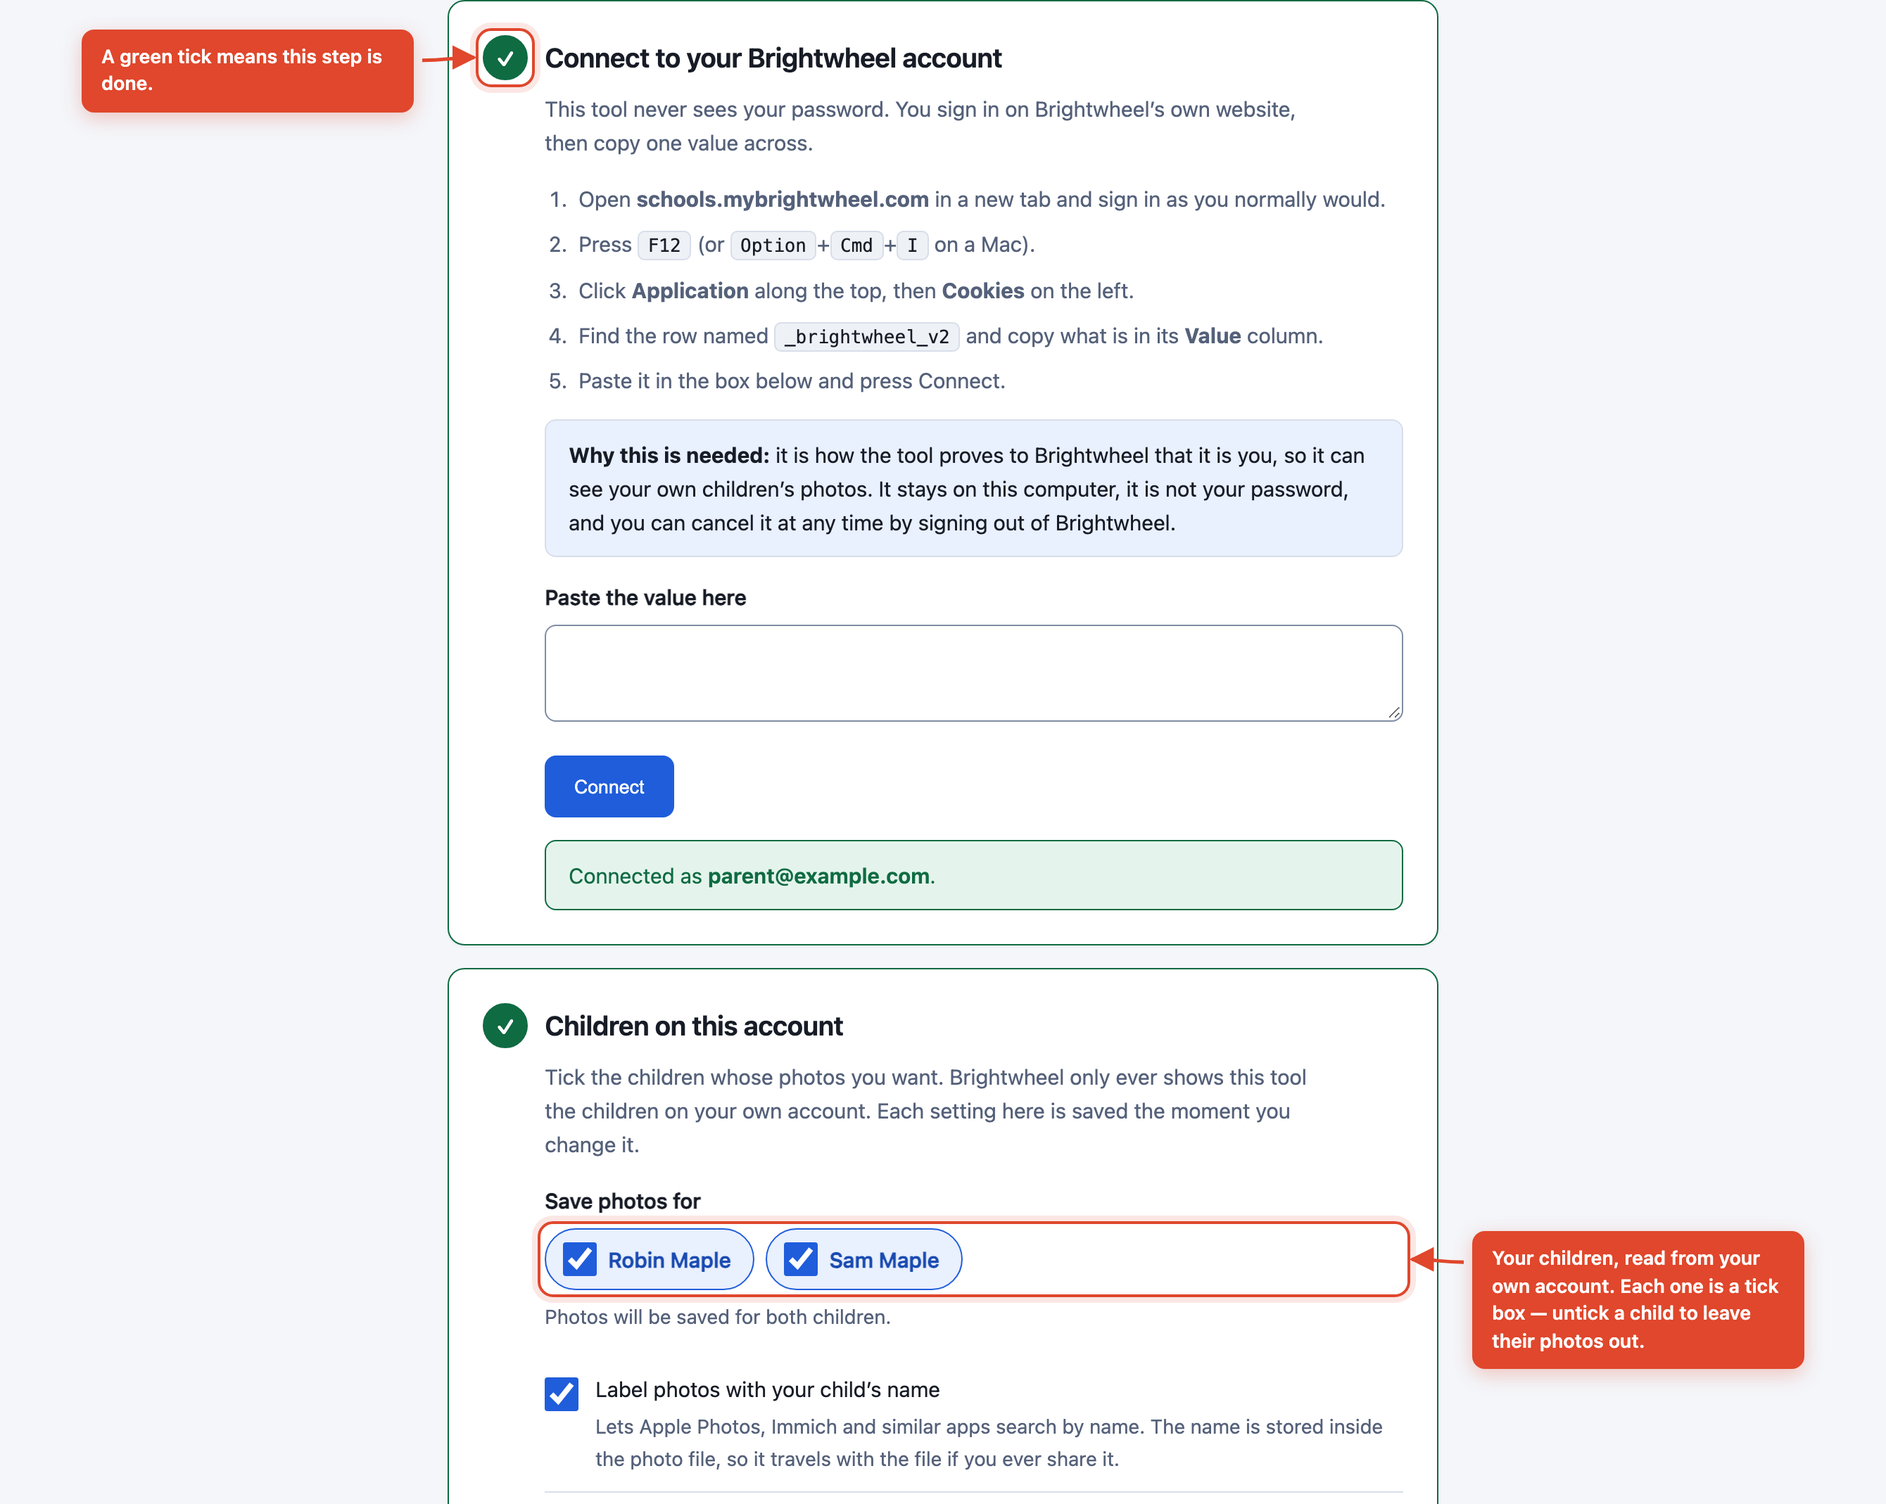
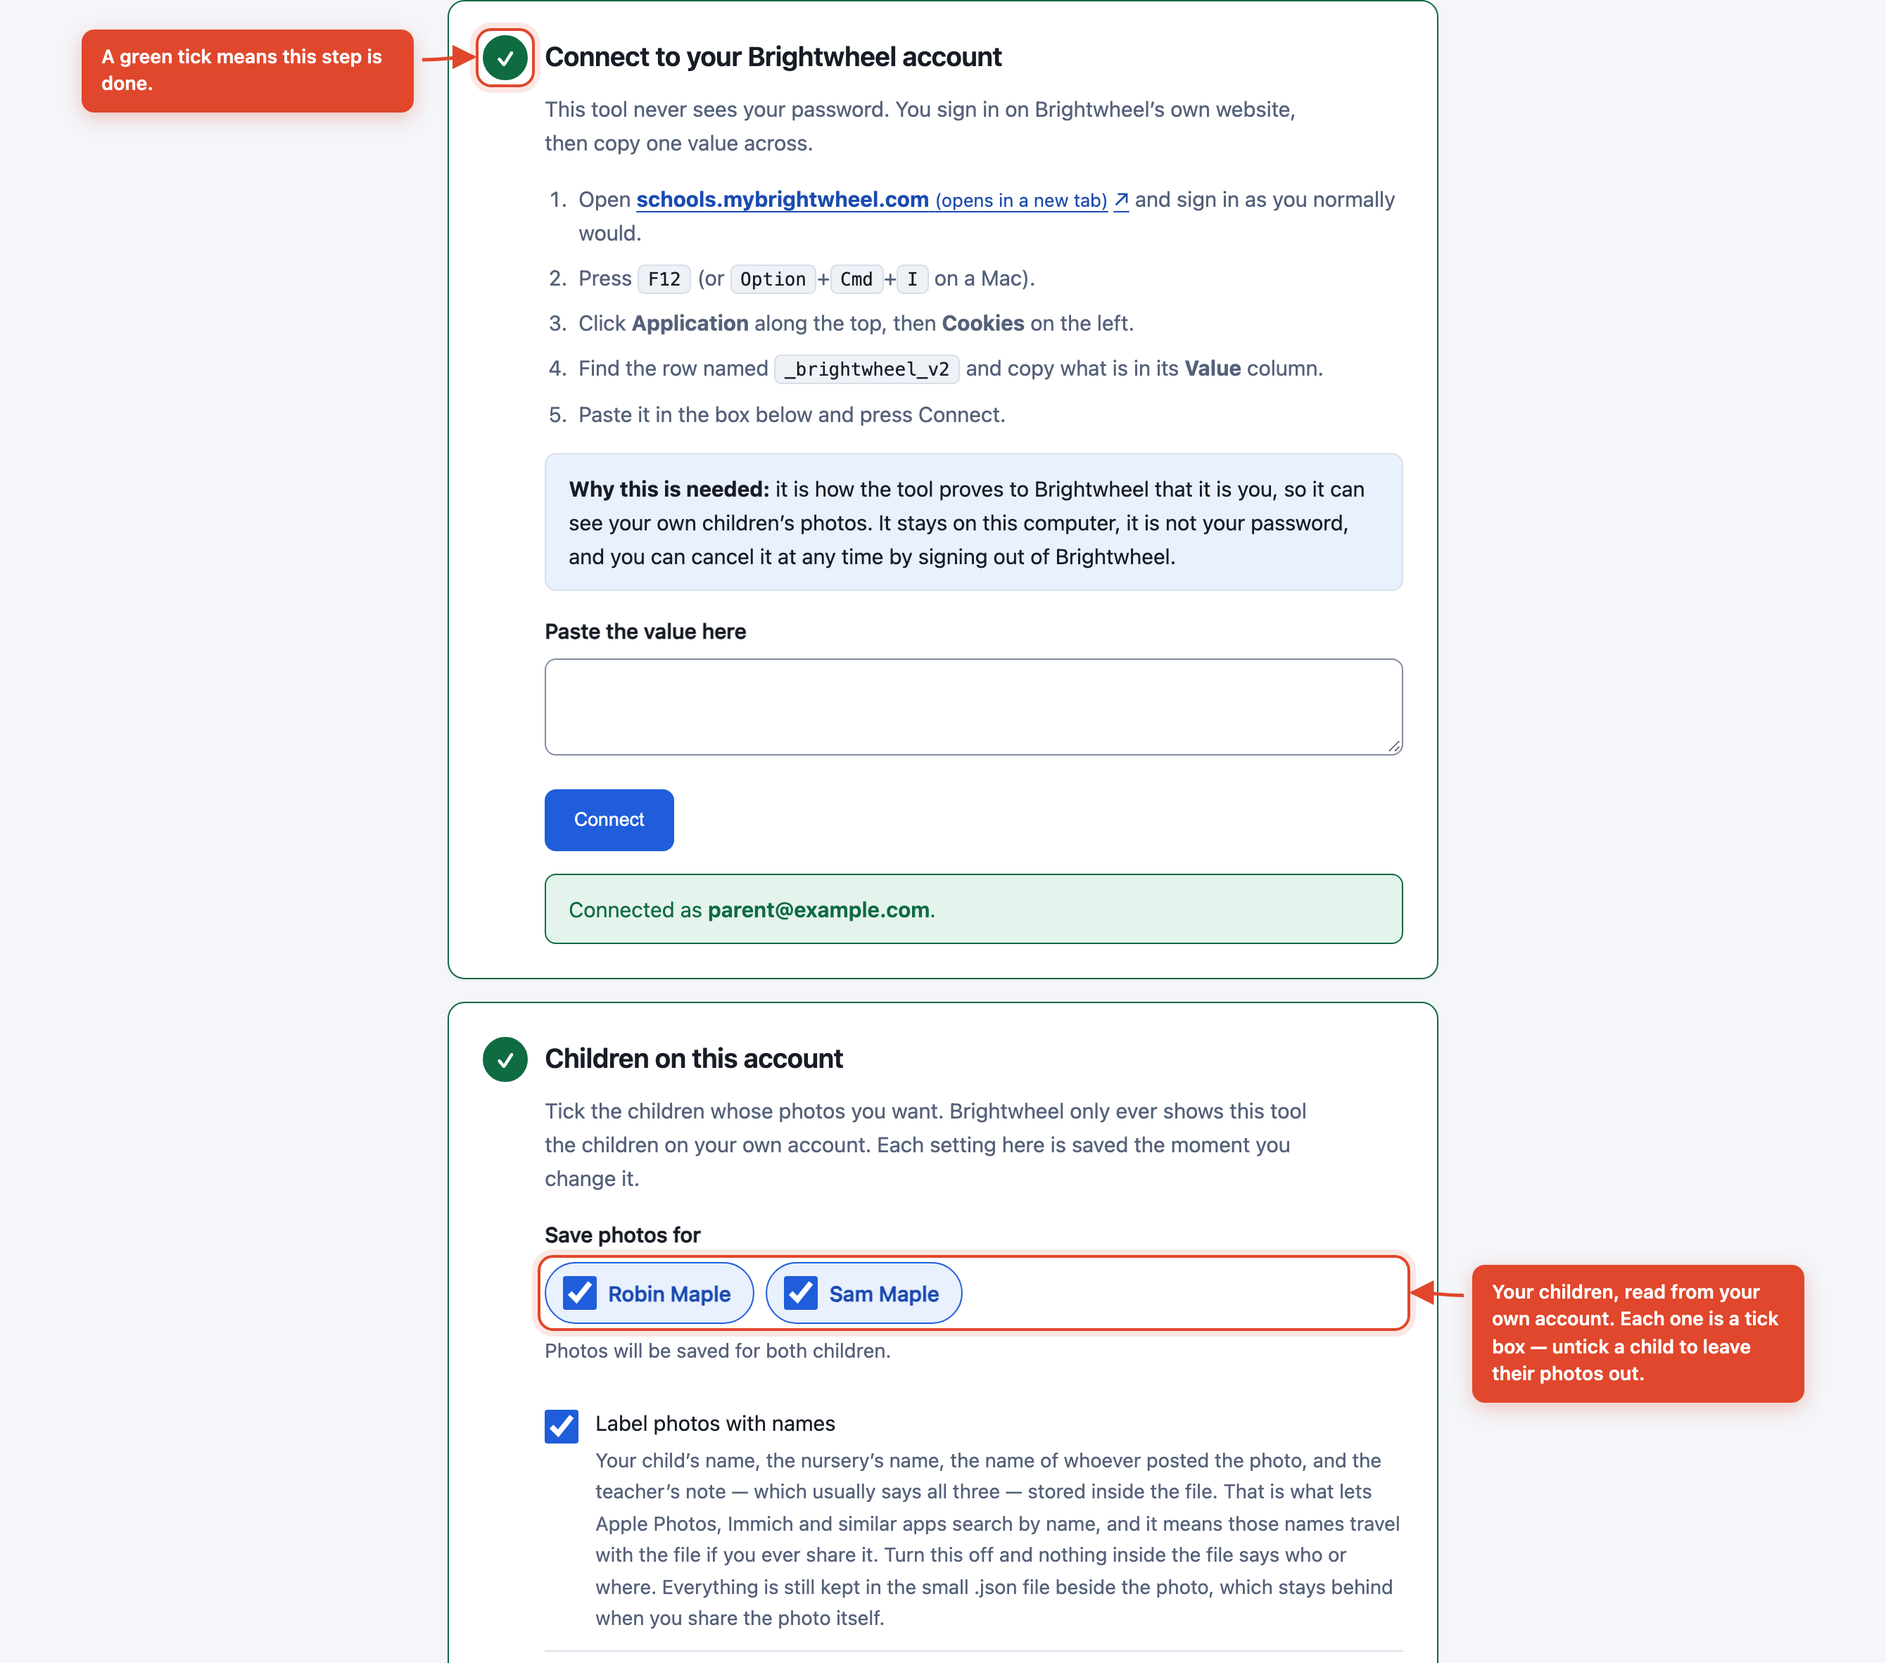
Name the setup page Care Album Saver and link out to Brightwheel
The page called itself "Save your child's photos" in the heading and
"Brightwheel Archive - Setup" in the tab, which is two names for one
thing, and the paragraph under the heading explained the tool a second
time. It now has one name, and the heading carries its own margin so
the gap above step 1 is a deliberate space rather than what was left
behind when the paragraph went.

The address a parent has to reach, schools.mybrightwheel.com, was plain
text they had to retype, and a mistyped sign-in address is how someone
ends up typing their Brightwheel password into somebody else's site. It
is a link now, opening in a new tab so the page and the box they are
about to paste into stay where they left them. "(opens in a new tab)"
is part of the link text rather than an arrow alone, because an icon is
announced as nothing at all and a change of context nobody was warned
about is what WCAG 3.2.5 is about.

No Content-Security-Policy change was needed or made: default-src
'none' governs what the page loads, not where a link goes. The token in
this page's address does not travel with it either — the response
carries Referrer-Policy: no-referrer and the link carries noreferrer.
The integration test that forbade every external origin now forbids
external loads and allows exactly this one outward link, which is the
narrower and truer rule.

Changed region(s): [[0.2478, 0.463, 0.9601, 1.0], [0.2168, 0.0, 0.7433, 0.4013], [0.031, 0.0309, 0.2168, 0.0926]]

diff --git a/packages/brightwheel-archive/test/page-identity.test.js b/packages/brightwheel-archive/test/page-identity.test.js
@@ -1,0 +1,112 @@
+// First, before anything that can read the config directory: points this file at a
+// throwaway one even when it is run on its own with `node --test`, which applies no
+// --import (see scripts/test-env.js).
+import { assertIsolatedConfigDir } from '../../../scripts/test-env.js';
+import { test, before, after } from 'node:test';
+import assert from 'node:assert/strict';
+import { Script } from 'node:vm';
+import { startMockBrightwheel, startWebUi } from '../dist/index.js';
+
+/**
+ * What the setup page calls itself, and the one link that leaves it.
+ *
+ * Both are things a parent sees within two seconds of the page opening, and both are easy
+ * to break by accident: a heading and a tab title drift apart, and a hyperlink loses its
+ * rel or its "new tab" wording in a reflow of the sentence around it. The page's own
+ * script cannot be run here — it is a browser script and this suite has no browser — so
+ * the instruction list is compiled out of the served HTML and called, the way
+ * web-ui-stop-and-errors.test.js reads the rest of that script.
+ */
+
+let mock;
+const SESSION = 'test-session-value';
+
+before(assertIsolatedConfigDir);
+before(async () => { mock = await startMockBrightwheel({ validSession: SESSION, activitiesPerStudent: 2 }); });
+after(async () => { await mock?.close(); });
+
+/** The page exactly as a browser receives it, with the headers it arrives under. */
+async function servedPage() {
+  const ui = await startWebUi({ baseUrl: `${mock.url}/api/v1` });
+  try {
+    const res = await fetch(`http://127.0.0.1:${ui.port}/?token=${ui.token}`);
+    assert.equal(res.status, 200);
+    return { headers: res.headers, html: await res.text() };
+  } finally {
+    await ui.close();
+  }
+}
+
+/**
+ * The step-1 instructions as that browser would render them. They are built in the page's
+ * script from the user agent, so the only honest way to check them is to run the function
+ * with each browser's string rather than to grep the source for a URL.
+ */
+function howToStepsFor(html, userAgent) {
+  const from = html.indexOf('function howToSteps()');
+  const to = html.indexOf("$('howto').innerHTML", from);
+  assert.ok(from > 0 && to > from, 'the instruction list is still where this test looks for it');
+  const source = html.slice(from, to);
+  return new Script(`${source}\nhowToSteps();`).runInNewContext({ navigator: { userAgent } });
+}
+
+const BROWSERS = {
+  Chrome: 'Mozilla/5.0 (Macintosh; Intel Mac OS X 10_15_7) AppleWebKit/537.36 (KHTML, like Gecko) Chrome/141.0.0.0 Safari/537.36',
+  Firefox: 'Mozilla/5.0 (Macintosh; Intel Mac OS X 10.15; rv:133.0) Gecko/20100101 Firefox/133.0',
+  Safari: 'Mozilla/5.0 (Macintosh; Intel Mac OS X 10_15_7) AppleWebKit/605.1.15 (KHTML, like Gecko) Version/18.0 Safari/605.1.15',
+};
+
+test('the page calls itself Care Album Saver, in the tab and in the heading', async () => {
+  const { html } = await servedPage();
+
+  assert.match(html, /<title>Care Album Saver<\/title>/, 'the browser tab carries the name');
+  assert.match(html, /<h1>Care Album Saver<\/h1>/, 'and so does the heading, word for word');
+  assert.equal((html.match(/<h1/g) || []).length, 1, 'exactly one h1');
+
+  // The subtitle was removed, not reworded. A page carrying two explanations of itself is
+  // how the old one and a new one end up contradicting each other later.
+  assert.ok(
+    !html.includes('This copies photos from your own Brightwheel account'),
+    'the old subtitle is gone',
+  );
+  assert.ok(!html.includes('class="lede"'), 'and nothing is left styling an element that no longer exists');
+});
+
+test('the Brightwheel address in step one is a link, and says that it opens a new tab', async () => {
+  const { html } = await servedPage();
+
+  for (const [name, ua] of Object.entries(BROWSERS)) {
+    const steps = howToStepsFor(html, ua);
+    const first = steps[0];
+
+    assert.match(first, /href="https:\/\/schools\.mybrightwheel\.com\//, `${name}: a real link, not an address to retype`);
+    assert.match(first, /target="_blank"/, `${name}: opens beside the page, which keeps the paste box in place`);
+    assert.match(first, /rel="noopener noreferrer"/, `${name}: the new tab gets no handle on this one and no referrer`);
+
+    // An arrow alone is announced as nothing at all, so the words are inside the link text
+    // and therefore part of the name a screen reader reads out (WCAG 3.2.5).
+    assert.ok(first.includes('(opens in a new tab)'), `${name}: the warning is words, not only an icon`);
+    const linkText = first.slice(first.indexOf('>', first.indexOf('<a ')) + 1, first.indexOf('</a>'));
+    assert.ok(linkText.includes('(opens in a new tab)'), `${name}: and those words are inside the link`);
+
+    // Every mention, not just the first one: an address left as plain text is one a parent
+    // retypes, and a typo lands them on somebody else's sign-in page.
+    const outsideLinks = steps.join(' ').replace(/<a\b[^>]*>[\s\S]*?<\/a>/g, '');
+    assert.ok(!outsideLinks.includes('mybrightwheel.com'), `${name}: no bare mention left over`);
+  }
+});
+
+test('following that link cannot carry the setup token to Brightwheel', async () => {
+  const { headers, html } = await servedPage();
+
+  // The page's own address holds the setup token, so a referrer would hand it to another
+  // origin. Two independent guards, because either one alone is a single edit from gone.
+  assert.equal(headers.get('referrer-policy'), 'no-referrer');
+  assert.match(html, /rel="noopener noreferrer"/);
+
+  // A link is a navigation, not a load, so default-src 'none' never stood in its way and
+  // no origin had to be allowed for it. If this ever fails, something widened the policy.
+  const csp = headers.get('content-security-policy');
+  assert.match(csp, /default-src 'none'/);
+  assert.ok(!csp.includes('mybrightwheel.com'), 'a plain hyperlink needs no CSP allowance');
+});

diff --git a/packages/brightwheel-archive/src/web/page.ts b/packages/brightwheel-archive/src/web/page.ts
@@ -32,7 +32,7 @@ export const PAGE = String.raw`<!doctype html>
 <head>
 <meta charset="utf-8">
 <meta name="viewport" content="width=device-width, initial-scale=1">
-<title>Brightwheel Archive - Setup</title>
+<title>Care Album Saver</title>
 <style>
   :root {
     color-scheme: light dark;
@@ -113,9 +113,11 @@ export const PAGE = String.raw`<!doctype html>
 
   .wrap { max-width: 47rem; margin: 0 auto; padding: var(--s7) var(--s5) 5rem; }
 
+  /* The name stands on its own: there is no subtitle under it, so the heading carries its
+     whole margin and the gap to step 1 is the one deliberate space, not an 8px remnant of
+     a paragraph that used to sit between them. */
   header { margin-bottom: var(--s6); }
-  h1 { font-size: 1.875rem; line-height: 1.25; margin: 0 0 var(--s2); letter-spacing: -.02em; font-weight: 650; }
-  .lede { color: var(--text-muted); margin: 0; font-size: 1.0625rem; max-width: 38rem; }
+  h1 { font-size: 1.875rem; line-height: 1.25; margin: 0; letter-spacing: -.02em; font-weight: 650; }
 
   ol.steps-list { list-style: none; margin: 0; padding: 0; }
 
@@ -151,6 +153,17 @@ export const PAGE = String.raw`<!doctype html>
 
   ol.howto { margin: 0 0 var(--s4); padding-left: 1.25rem; color: var(--text-muted); font-size: .9375rem; }
   ol.howto li { margin-bottom: var(--s2); padding-left: var(--s1); }
+
+  /* The single link that leaves this page. Underlined as well as coloured, because colour
+     is never the only signal (WCAG 1.4.1), and the words "opens in a new tab" are part of
+     the link text: the arrow says it to a sighted reader, the words say it to everyone
+     else, and a change of context nobody was warned about is the complaint behind WCAG
+     3.2.5. Nothing is loaded from the other origin, so the CSP is untouched. */
+  a.ext { color: var(--accent-ink); text-underline-offset: 3px; }
+  a.ext:hover { color: var(--accent-hover); }
+  a.ext .new-tab { font-size: .8125rem; }
+  a.ext .mark { margin-left: .25em; text-decoration: none; }
+
   kbd, code {
     background: var(--surface-sunken); padding: .125rem .4rem; border-radius: 5px;
     font-size: .8125rem; color: var(--text);
@@ -288,8 +301,7 @@ export const PAGE = String.raw`<!doctype html>
 <a class="skip" href="#main">Skip to the setup steps</a>
 <div class="wrap">
   <header>
-    <h1>Save your child&rsquo;s photos</h1>
-    <p class="lede">This copies photos from your own Brightwheel account onto this computer, sorted into a folder for each week.</p>
+    <h1>Care Album Saver</h1>
   </header>
 
   <main id="main">
@@ -438,6 +450,12 @@ const show = (el, kind, html) => { el.innerHTML = '<div class="msg ' + kind + '"
  * Browser-specific instructions. The keystroke and the menu path genuinely differ, and a
  * parent following Chrome steps in Safari simply fails — Safari hides the Develop menu
  * until you turn it on, which is a dead end nobody guesses their way out of.
+ *
+ * Step one is a real link rather than an address to retype: a parent who mistypes it lands
+ * on somebody else's site and signs in there. It opens in a new tab so this page, and the
+ * box they are about to paste into, stay exactly where they left them. Following it sends
+ * nothing away with it — the response carries Referrer-Policy: no-referrer, and the link
+ * carries noreferrer too, so the setup token in this page's address never travels.
  */
 function howToSteps() {
   const ua = navigator.userAgent;
@@ -454,7 +472,7 @@ function howToSteps() {
       ? 'Click <b>Storage</b> along the top, then <b>Cookies</b> on the left.'
       : 'Click <b>Application</b> along the top, then <b>Cookies</b> on the left.';
   return [
-    'Open <b>schools.mybrightwheel.com</b> in a new tab and sign in as you normally would.',
+    'Open <a class="ext" href="https://schools.mybrightwheel.com/" target="_blank" rel="noopener noreferrer"><b>schools.mybrightwheel.com</b> <span class="new-tab">(opens in a new tab)</span><span class="mark" aria-hidden="true">&#8599;</span></a> and sign in as you normally would.',
     open,
     where,
     'Find the row named <code>_brightwheel_v2</code> and copy what is in its <b>Value</b> column.',

diff --git a/scripts/screenshots.js b/scripts/screenshots.js
@@ -161,7 +161,7 @@ async function annotate(page, notes) {
     const labels = [...document.querySelectorAll('.__ann > div')].filter((n) => n.textContent);
     // The drawn content, not `.wrap`: the column's own padding is clear space a label may
     // legitimately sit in, and judging by it would reject layouts that are perfectly fine.
-    const content = [...document.querySelectorAll('.card, .privacy, h1, .lede')].map((n) => n.getBoundingClientRect());
+    const content = [...document.querySelectorAll('.card, .privacy, h1')].map((n) => n.getBoundingClientRect());
     const bad = [];
     for (const [i, label] of labels.entries()) {
       const r = label.getBoundingClientRect();
@@ -238,7 +238,9 @@ const main = async () => {
   await page.click('#btn-connect');
   await page.waitForSelector('.kid', { timeout: 10000 });
   await page.waitForTimeout(400);
-  await page.setViewportSize({ width: VIEWPORT.width, height: 1100 });
+  // Taller than the default: step 1's first instruction is a link long enough to wrap, so
+  // everything below it sits lower than it used to and the shot no longer fits in 1100.
+  await page.setViewportSize({ width: VIEWPORT.width, height: 1220 });
   await page.evaluate(() => document.querySelector('#card-connect').scrollIntoView({ block: 'start' }));
   await page.waitForTimeout(300);
   await annotate(page, [
@@ -257,7 +259,8 @@ const main = async () => {
   await page.uncheck('#kid-1');
   await saved;
   await page.waitForFunction(() => document.querySelector('#config-msg')?.textContent === 'Saved', { timeout: 5000 });
-  await page.setViewportSize({ width: VIEWPORT.width, height: 1200 });
+  // Taller for the same reason as shot 2.
+  await page.setViewportSize({ width: VIEWPORT.width, height: 1300 });
   await page.evaluate(() => document.querySelector('details').setAttribute('open', ''));
   await page.evaluate(() => document.querySelector('#card-children').scrollIntoView({ block: 'start' }));
   await page.waitForTimeout(300);
@@ -297,7 +300,8 @@ const main = async () => {
   await access(join(PHOTOS, 'archive.json'));
 
   // 5 — dark mode, on the step with the most controls. Both schemes are first-class.
-  const dark = await browser.newPage({ viewport: { width: VIEWPORT.width, height: 1160 }, deviceScaleFactor: 2, colorScheme: 'dark' });
+  // Taller for the same reason as shot 2.
+  const dark = await browser.newPage({ viewport: { width: VIEWPORT.width, height: 1260 }, deviceScaleFactor: 2, colorScheme: 'dark' });
   await dark.goto(ui.url, { waitUntil: 'networkidle' });
   await dark.waitForSelector('.kid', { timeout: 10000 });
   await dark.waitForTimeout(700);

diff --git a/packages/brightwheel-archive/test/integration.test.js b/packages/brightwheel-archive/test/integration.test.js
@@ -258,7 +258,7 @@ test('the setup page binds only to the loopback interface', async () => {
     assert.match(res.headers.get('cache-control'), /no-store/);
     assert.match(res.headers.get('content-security-policy'), /default-src 'none'/);
     const html = await res.text();
-    assert.ok(html.includes('Save your child'));
+    assert.ok(html.includes('Care Album Saver'));
     // The token is bound into the page, not guessable.
     assert.ok(ui.token.length >= 30);
   } finally {
@@ -381,9 +381,17 @@ test('the setup page is structurally sound and accessible', async () => {
     // The tool does run a local HTTP server; claiming otherwise is untrue.
     assert.ok(!/no server/i.test(visible), 'must not claim there is no server — this page is served by one');
 
-    // No external origin may be referenced — the CSP forbids it and so should the markup.
-    const externals = html.match(/(src|href)="https?:\/\/[^"]+"/g) || [];
-    assert.deepEqual(externals, [], `page must not reference external origins: ${externals.join(', ')}`);
+    // Nothing may be LOADED from another origin — that is what the CSP forbids, and the
+    // markup must not even ask for it. A link the parent clicks is a navigation, not a
+    // load: exactly one is allowed, to Brightwheel's own sign-in page, because the
+    // alternative is an address they retype and mistype. Its rel, its target and its
+    // "opens in a new tab" wording are checked in page-identity.test.js.
+    const loads = html.match(/(?:src|<link[^>]+href)="https?:\/\/[^"]+"/g) || [];
+    assert.deepEqual(loads, [], `page must not load from external origins: ${loads.join(', ')}`);
+
+    const outward = html.match(/<a\b[^>]+href="https?:\/\/[^"]+"/g) || [];
+    assert.equal(outward.length, 1, `exactly one outward link: ${outward.join(', ')}`);
+    assert.match(outward[0], /href="https:\/\/schools\.mybrightwheel\.com\//, 'and it goes to Brightwheel');
   } finally {
     await ui.close();
   }
